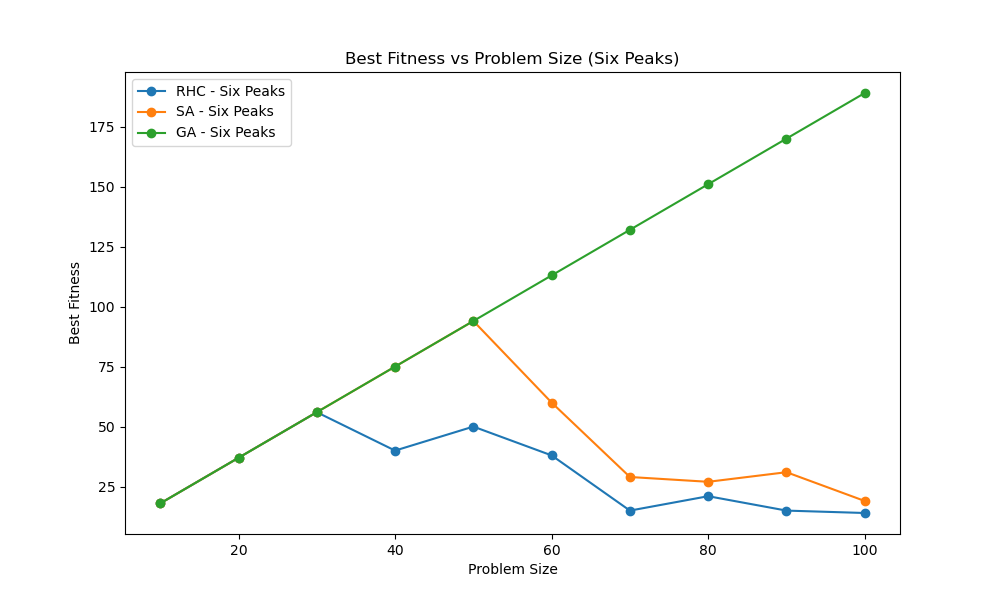
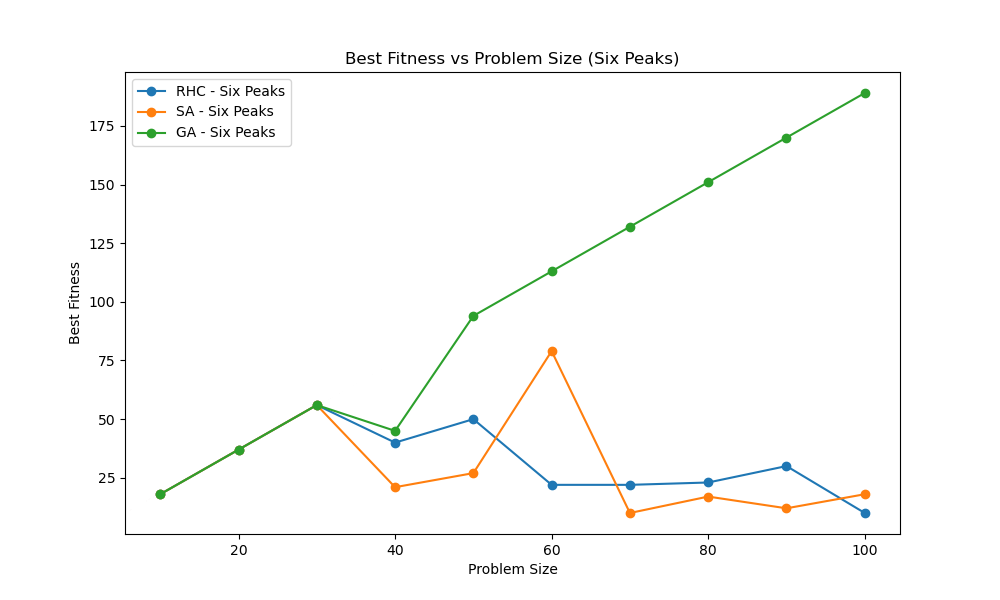
final

diff --git a/A2.py b/A2.py
@@ -51,7 +51,7 @@ fitness_cont_peaks = {"RHC": [], "SA": [], "GA": [], "MIMIC": []}
 def solve_problem(problem, use_mimic=False):
     start_time = time.time()
     best_state_rhc, best_fitness_rhc, rhc_curve = mlrose.random_hill_climb(
-        problem, max_attempts=100, max_iters=1000, restarts=10, curve=True
+        problem, max_attempts=100, max_iters=500, restarts=10, curve=True
     )
     rhc_time = time.time() - start_time
 
@@ -60,7 +60,7 @@ def solve_problem(problem, use_mimic=False):
         problem,
         schedule=mlrose.GeomDecay(),
         max_attempts=100,
-        max_iters=1000,
+        max_iters=500,
         curve=True,
     )
     sa_time = time.time() - start_time
@@ -71,7 +71,7 @@ def solve_problem(problem, use_mimic=False):
         pop_size=200,
         mutation_prob=0.1,
         max_attempts=100,
-        max_iters=1000,
+        max_iters=500,
         curve=True,
     )
     ga_time = time.time() - start_time
@@ -83,7 +83,7 @@ def solve_problem(problem, use_mimic=False):
             pop_size=200,
             keep_pct=0.2,
             max_attempts=100,
-            max_iters=1000,
+            max_iters=500,
             curve=True,
         )
         mimic_time = time.time() - start_time
@@ -167,7 +167,7 @@ def custom_fitness_function(weights):
     input_to_hidden_weights = weights[: num_features * num_hidden_nodes].reshape(
         (num_features, num_hidden_nodes)
     )
-    hidden_to_output_weights = weights[num_features * num_hidden_nodes :].reshape(
+    hidden_to_output_weights = weights[num_features * num_hidden_nodes:].reshape(
         (num_hidden_nodes, num_output_nodes)
     )
 
@@ -196,32 +196,46 @@ problem_nn = mlrose.ContinuousOpt(
 
 # Function to solve the neural network weight optimization problem using different algorithms
 def solve_nn_problem(problem, algorithm_name):
-    if algorithm_name == "RHC":
-        best_state, best_fitness, curve = mlrose.random_hill_climb(
-            problem, max_attempts=200, max_iters=2000, restarts=20, curve=True
-        )
-    elif algorithm_name == "SA":
-        best_state, best_fitness, curve = mlrose.simulated_annealing(
-            problem,
-            schedule=mlrose.GeomDecay(),
-            max_attempts=200,
-            max_iters=2000,
-            curve=True,
-        )
-    elif algorithm_name == "GA":
-        best_state, best_fitness, curve = mlrose.genetic_alg(
-            problem,
-            pop_size=300,
-            mutation_prob=0.2,
-            max_attempts=200,
-            max_iters=2000,
-            curve=True,
-        )
+    seeds = np.random.randint(1, 101, size=10)
+    results = []
+    curves = []
+    for seed in seeds:
+        np.random.seed(seed)
+        if algorithm_name == "RHC":
+            best_state, best_fitness, curve = mlrose.random_hill_climb(
+                problem, max_attempts=100, max_iters=500, restarts=20, curve=True
+            )
+        elif algorithm_name == "SA":
+            best_state, best_fitness, curve = mlrose.simulated_annealing(
+                problem,
+                schedule=mlrose.GeomDecay(),
+                max_attempts=100,
+                max_iters=500,
+                curve=True,
+            )
+        elif algorithm_name == "GA":
+            best_state, best_fitness, curve = mlrose.genetic_alg(
+                problem,
+                pop_size=300,
+                mutation_prob=0.2,
+                max_attempts=100,
+                max_iters=500,
+                curve=True,
+            )
+        results.append(best_fitness)
+        curves.append(curve)
+
+    avg_fitness = np.mean(results)
+
+    # Ensuring all curves have the same length by padding with the last value
+    max_len = max(len(curve) for curve in curves)
+    padded_curves = [np.pad(curve[:, 0], (0, max_len - len(curve)), 'edge') for curve in curves]
+    avg_curve = np.mean(padded_curves, axis=0)
 
     print(
-        f"Neural Network Weight Optimization - {algorithm_name}: Best fitness: {best_fitness}"
+        f"Neural Network Weight Optimization - {algorithm_name}: Avg fitness: {avg_fitness}"
     )
-    return best_state, best_fitness, curve
+    return best_state, avg_fitness, avg_curve
 
 
 # Solve the neural network weight optimization problem using different algorithms
@@ -234,7 +248,7 @@ nn_ga_state, nn_ga_fitness, nn_ga_curve = solve_nn_problem(problem_nn, "GA")
 def plot_fitness_iterations(curves, title, algorithms, colors):
     plt.figure(figsize=(10, 6))
     for curve, algo, color in zip(curves, algorithms, colors):
-        plt.plot(range(len(curve)), curve[:, 0], label=algo, color=color)
+        plt.plot(range(len(curve)), curve, label=algo, color=color)
     plt.title(title)
     plt.xlabel("Iterations")
     plt.ylabel("Fitness")
@@ -432,7 +446,7 @@ def custom_fitness_function_tuned(weights):
     input_to_hidden_weights = weights[: num_features * num_hidden_nodes].reshape(
         (num_features, num_hidden_nodes)
     )
-    hidden_to_output_weights = weights[num_features * num_hidden_nodes :].reshape(
+    hidden_to_output_weights = weights[num_features * num_hidden_nodes:].reshape(
         (num_hidden_nodes, num_output_nodes)
     )
 
